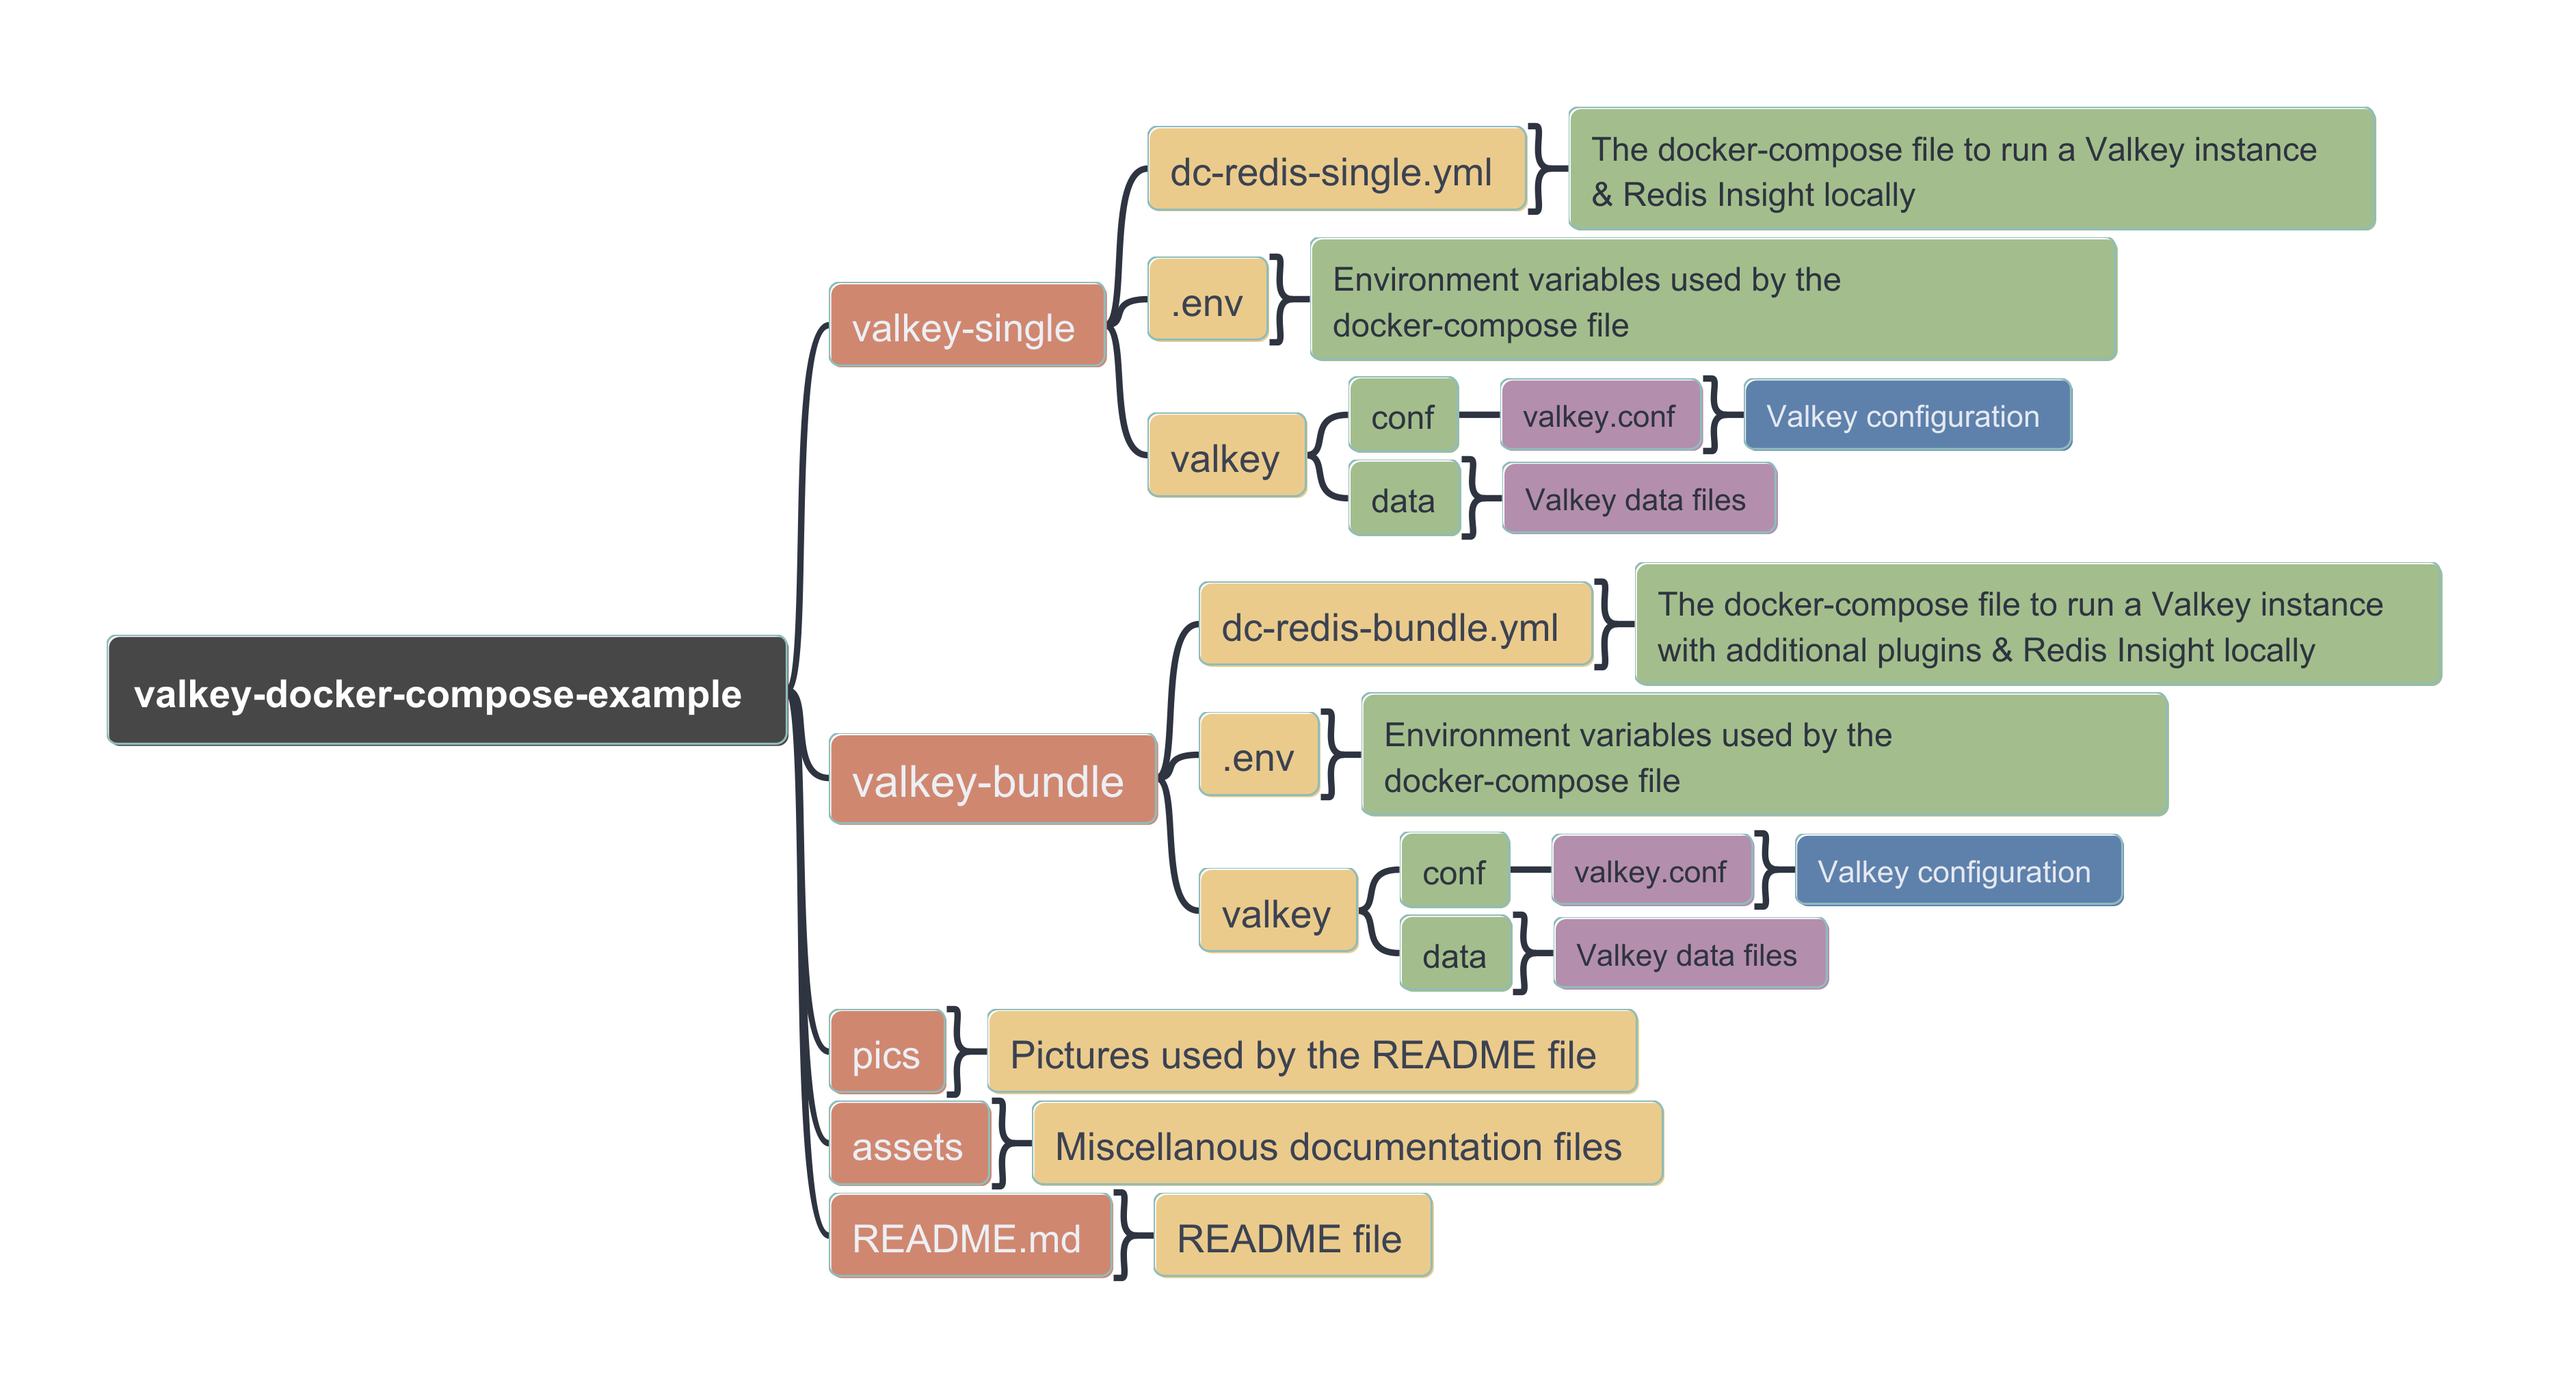
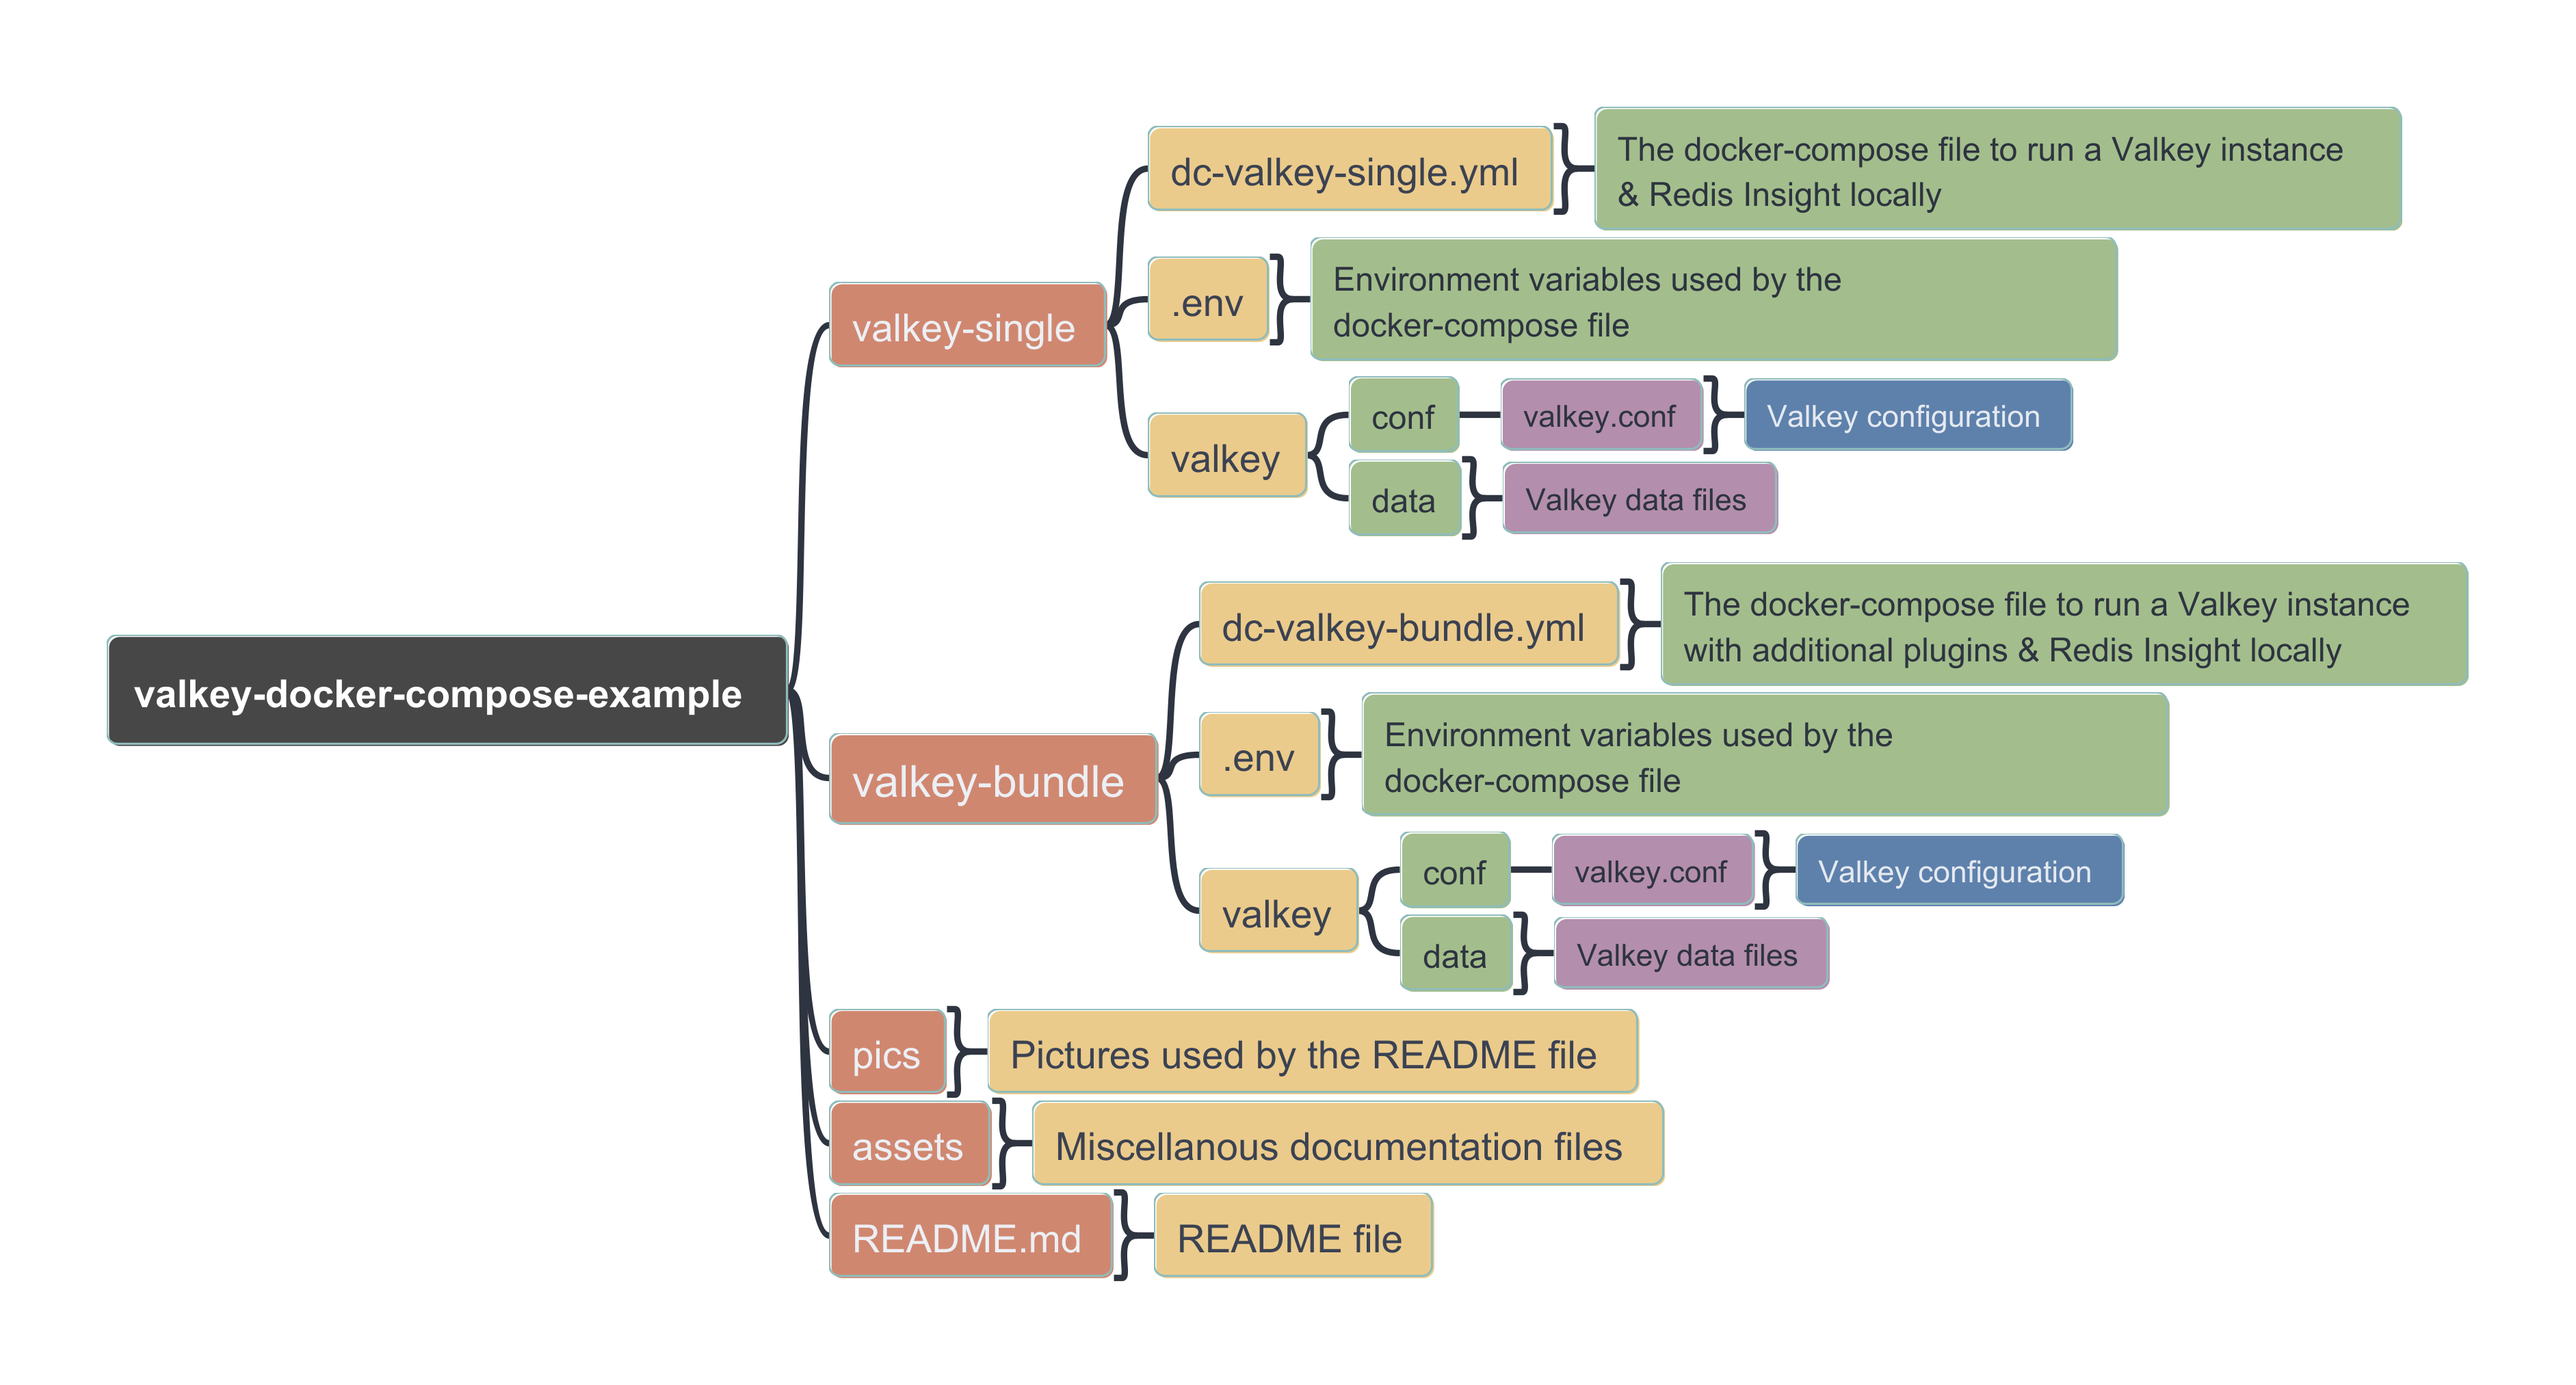
fix(valkey)
Fixing some typos

Changed region(s): [[0.0622, 0.0622, 0.9332, 0.9333]]

diff --git a/valkey-docker-compose-example/assets/directory-structure.mm b/valkey-docker-compose-example/assets/directory-structure.mm
@@ -89,7 +89,7 @@
 <node TEXT="" ID="ID_1970842797" CREATED="1708702349328" MODIFIED="1708702349328">
 <hook NAME="FirstGroupNode"/>
 </node>
-<node TEXT="dc-redis-single.yml" ID="ID_1216405956" CREATED="1708702157113" MODIFIED="1745832135751"/>
+<node TEXT="dc-valkey-single.yml" ID="ID_1216405956" CREATED="1708702157113" MODIFIED="1767774531131"/>
 <node TEXT="" ID="ID_121908137" CREATED="1708702349325" MODIFIED="1708702349327">
 <hook NAME="SummaryNode"/>
 <hook NAME="AlwaysUnfoldedNode"/>
@@ -131,7 +131,7 @@
 <node TEXT="" ID="ID_467205067" CREATED="1708702349328" MODIFIED="1708702349328">
 <hook NAME="FirstGroupNode"/>
 </node>
-<node TEXT="dc-redis-bundle.yml" ID="ID_635981785" CREATED="1708702157113" MODIFIED="1767542180509"/>
+<node TEXT="dc-valkey-bundle.yml" ID="ID_635981785" CREATED="1708702157113" MODIFIED="1767774539197"/>
 <node TEXT="" ID="ID_1175312284" CREATED="1708702349325" MODIFIED="1708702349327">
 <hook NAME="SummaryNode"/>
 <hook NAME="AlwaysUnfoldedNode"/>

diff --git a/valkey-docker-compose-example/README.md b/valkey-docker-compose-example/README.md
@@ -148,9 +148,9 @@ To connect to the dockerised local instance, you will note that the host should 
 ![Creating a new Connection in Another Redis Desktop Manager](./pics/ardm_002_new_connection.png)
 
 After clicking on the `OK` button, the new connection is now available.
-When selecting it, you can now access to the Redis instance.
+When selecting it, you can now access the Valkey instance.
 
-![Accessing the local redis instance in Another Redis Desktop Manager](./pics/ardm_003_accessing_the_local_instance.png)
+![Accessing the local Valkey instance in Another Redis Desktop Manager](./pics/ardm_003_accessing_the_local_instance.png)
 
 ## Ressources
 
